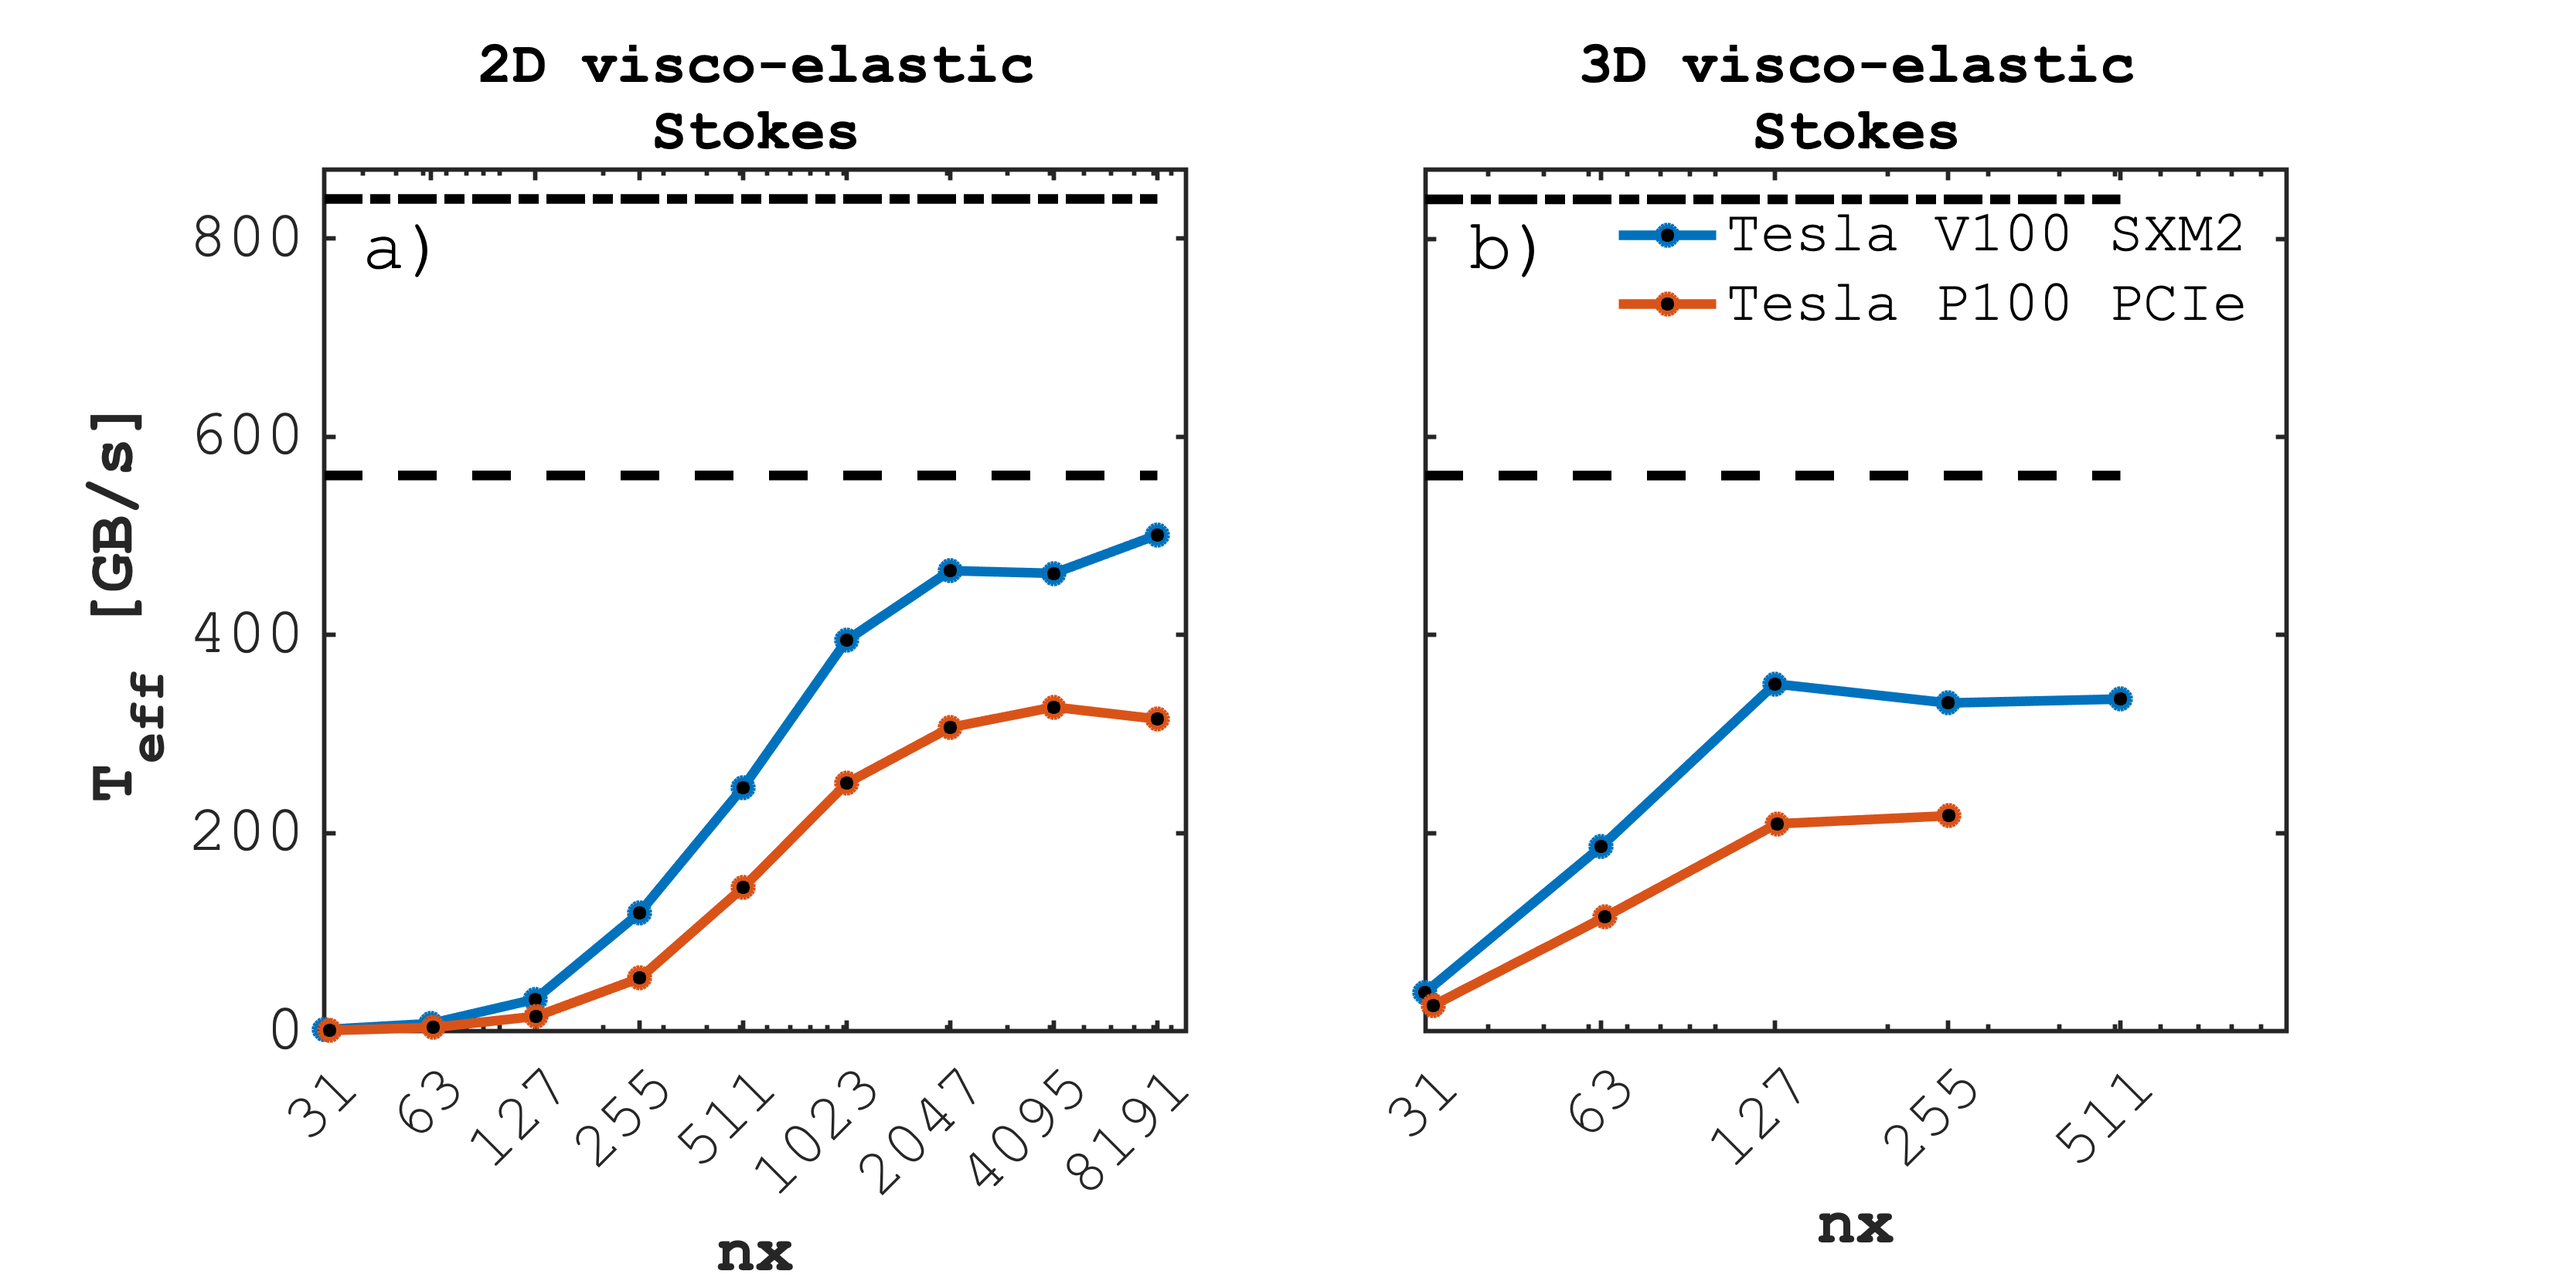
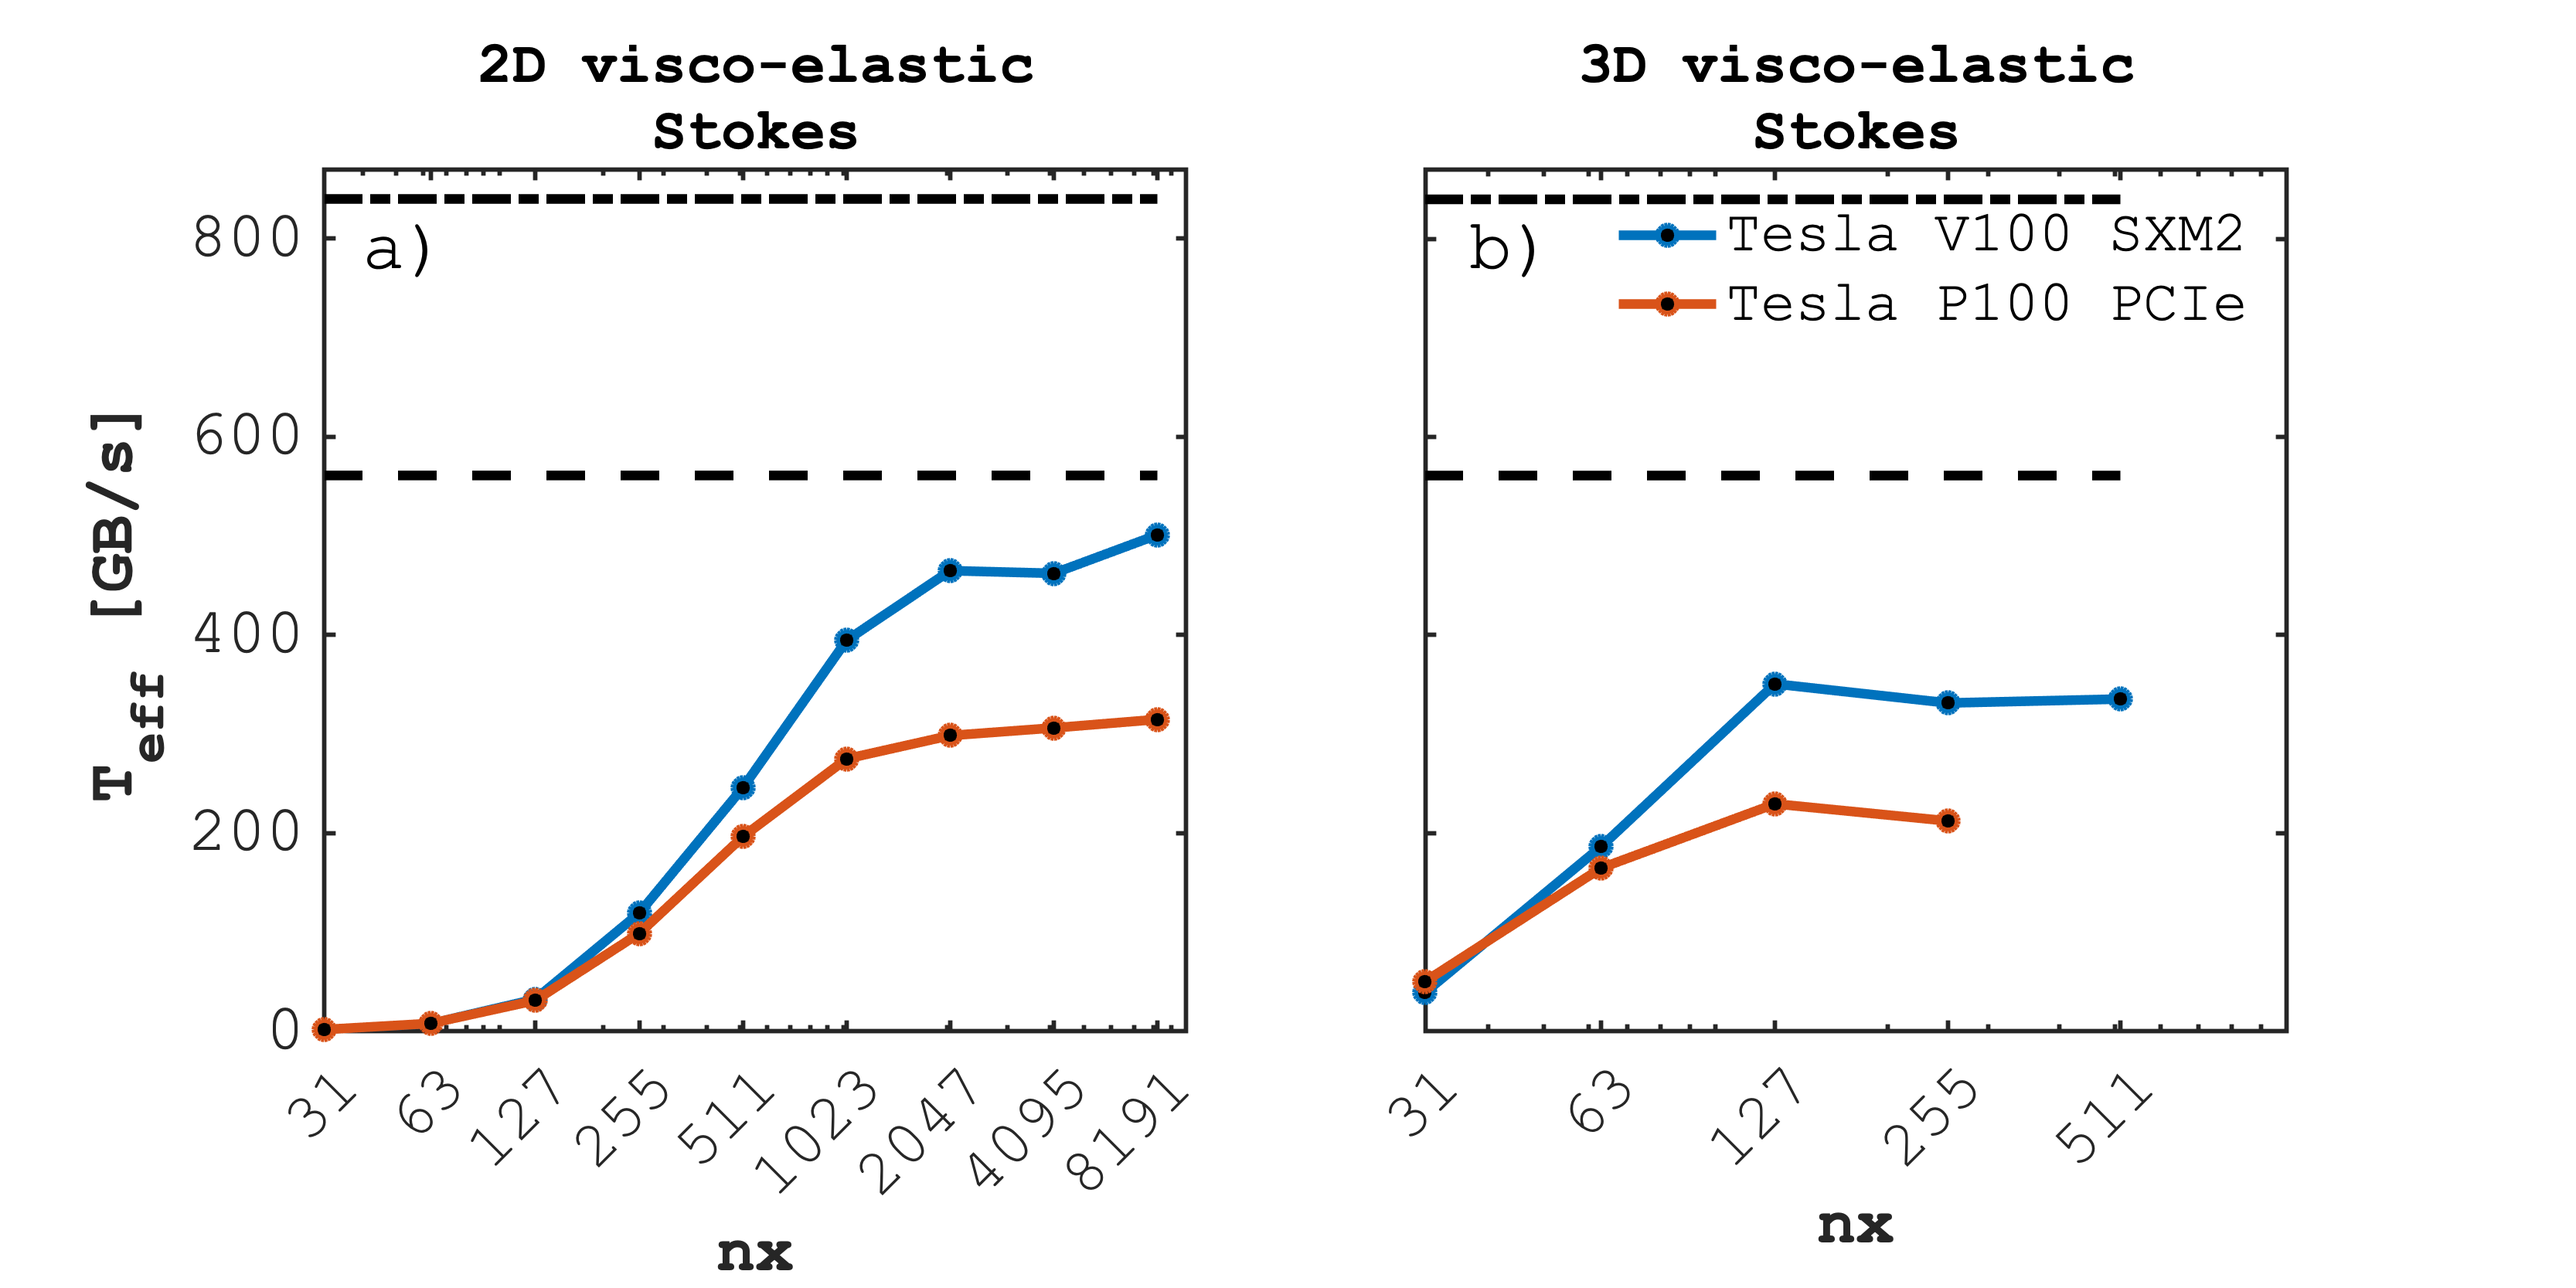
Add latest scaling.

Changed region(s): [[0.5305, 0.6239, 0.7801, 0.7798], [0.1248, 0.6239, 0.312, 0.811], [0.312, 0.5303, 0.4368, 0.6239]]

diff --git a/visu/viz_perf_stokes.m b/visu/viz_perf_stokes.m
@@ -9,14 +9,19 @@ fid = fopen('../output/out_Stokes3D_ve_perf_volta.txt','r'); stokes_3D_volta = f
 fid = fopen('../output/out_Stokes3D_ve_perf_daint.txt','r'); stokes_3D_daint = fscanf(fid, '%d %d %d %d %d %f %f %f %f', [9 Inf]); fclose(fid); % np nx ny nz ittot t_toc A_eff t_it T_eff
 fid = fopen('../../PseudoTransientDiffusion/output/out_diff_3D_nonlin_perf_octo.txt' ,'r'); diff_3D_octo  = fscanf(fid, '%d %d %d %d %d %f %f %f %f', [9 Inf]); fclose(fid); % np nx ny nz ittot t_toc A_eff t_it T_eff
 fid = fopen('../../PseudoTransientDiffusion/output/out_diff_3D_nonlin_perf_volta.txt','r'); diff_3D_volta = fscanf(fid, '%d %d %d %d %d %f %f %f %f', [9 Inf]); fclose(fid); % np nx ny nz ittot t_toc A_eff t_it T_eff
+fid = fopen('../../PseudoTransientDiffusion/output/out_diff_3D_nonlin_perf_daint.txt','r'); diff_3D_daint = fscanf(fid, '%d %d %d %d %d %f %f %f %f', [9 Inf]); fclose(fid); % np nx ny nz ittot t_toc A_eff t_it T_eff
 
 fid = fopen('../output/out_Stokes3D_ve_xpu_perf_octo.txt' ,'r'); stokes_3D_mxpu_octo  = fscanf(fid, '%d %d %d %d %d %f %f %f %f', [9 Inf]); fclose(fid); % np nx ny nz ittot t_toc A_eff t_it T_eff
 fid = fopen('../output/out_Stokes3D_ve_xpu_perf_volta.txt','r'); stokes_3D_mxpu_volta = fscanf(fid, '%d %d %d %d %d %f %f %f %f', [9 Inf]); fclose(fid); % np nx ny nz ittot t_toc A_eff t_it T_eff
+fid = fopen('../output/out_Stokes3D_ve_xpu_perf_daint.txt','r'); stokes_3D_mxpu_daint = fscanf(fid, '%d %d %d %d %d %f %f %f %f', [9 Inf]); fclose(fid); % np nx ny nz ittot t_toc A_eff t_it T_eff
 fid = fopen('../../PseudoTransientDiffusion/output/out_diff_3D_nonlin_multixpu_perf_octo.txt' ,'r'); diff_3D_mxpu_octo  = fscanf(fid, '%d %d %d %d %d %f %f %f %f', [9 Inf]); fclose(fid); % np nx ny nz ittot t_toc A_eff t_it T_eff
 fid = fopen('../../PseudoTransientDiffusion/output/out_diff_3D_nonlin_multixpu_perf_volta.txt','r'); diff_3D_mxpu_volta = fscanf(fid, '%d %d %d %d %d %f %f %f %f', [9 Inf]); fclose(fid); % np nx ny nz ittot t_toc A_eff t_it T_eff
+fid = fopen('../../PseudoTransientDiffusion/output/out_diff_3D_nonlin_multixpu_perf_daint.txt','r'); diff_3D_mxpu_daint = fscanf(fid, '%d %d %d %d %d %f %f %f %f', [9 Inf]); fclose(fid); % np nx ny nz ittot t_toc A_eff t_it T_eff
+
 
 nrep = 5; % number of repetitions of the experiment
 nrep2 = 2; % number of repetitions of the experiment
+nrep1 = 1; % number of repetitions of the experiment
 my_type = "my_max";
 % my_type = "my_mean";
 
@@ -25,14 +30,17 @@ stokes_2D_volta_2 = average_exp(stokes_2D_volta, nrep, my_type);
 stokes_2D_daint_2 = average_exp(stokes_2D_daint, nrep2, my_type);
 stokes_3D_octo_2  = average_exp(stokes_3D_octo, nrep, my_type);
 stokes_3D_volta_2 = average_exp(stokes_3D_volta, nrep, my_type);
-stokes_3D_daint_2 = average_exp(stokes_3D_daint, nrep2, my_type);
+stokes_3D_daint_2 = average_exp(stokes_3D_daint, nrep1, my_type);
 stokes_3D_mxpu_octo_2  = average_exp(stokes_3D_mxpu_octo, nrep, my_type);
 stokes_3D_mxpu_volta_2 = average_exp(stokes_3D_mxpu_volta, nrep, my_type);
+stokes_3D_mxpu_daint_2 = average_exp(stokes_3D_mxpu_daint, nrep1, my_type);
 
 diff_3D_octo_2  = average_exp(diff_3D_octo, nrep, my_type);
 diff_3D_volta_2 = average_exp(diff_3D_volta, nrep, my_type);
+diff_3D_daint_2 = average_exp(diff_3D_daint, nrep2, my_type);
 diff_3D_mxpu_octo_2  = average_exp(diff_3D_mxpu_octo, nrep, my_type);
 diff_3D_mxpu_volta_2 = average_exp(diff_3D_mxpu_volta, nrep, my_type);
+diff_3D_mxpu_daint_2 = average_exp(diff_3D_mxpu_daint, nrep1, my_type);
 
 T_peak_volta = 840;
 T_peak_octo  = 254;
@@ -42,11 +50,12 @@ FS = 20;
 mylim = [0 870];
 ylab = 790;
 
-mylim2 = [0.89 1.01];
-ylab2 = 0.9;
+mylim2 = [0.88 1.01];
+mylimx = [0.9 2e3];
+ylab2 = 0.895;
 
 fig1 = 1;
-fig2 = 0;
+fig2 = 1;
 
 %%
 if fig1==1
@@ -96,35 +105,39 @@ end
 if fig2==1
 figure(2),clf,set(gcf,'color','white','pos',[1400 10 800 400])
 sp1 = subplot(121);
-semilogx(diff_3D_mxpu_octo_2(1,:),diff_3D_mxpu_octo_2(end,:)./diff_3D_mxpu_octo_2(end,1), '-o', ...
-     diff_3D_mxpu_volta_2(1,:),diff_3D_mxpu_volta_2(end,:)./diff_3D_mxpu_volta_2(end,1), '-o', ...
-     'linewidth',3, 'MarkerFaceColor','k'), axis square, set(gca, 'fontsize',FS, 'linewidth',1.4)
+% diff_3D_mxpu_octo_2(1,:),diff_3D_mxpu_octo_2(end,:)./diff_3D_mxpu_octo_2(end,1), '-o', ...
+semilogx(diff_3D_mxpu_volta_2(1,:),diff_3D_mxpu_volta_2(end,:)./diff_3D_mxpu_volta_2(end,1), '-o', ...
+         diff_3D_mxpu_daint_2(1,:),diff_3D_mxpu_daint_2(end,:)./diff_3D_mxpu_daint_2(end,1), '-o', ...
+        'linewidth',3, 'MarkerFaceColor','k'), axis square, set(gca, 'fontsize',FS, 'linewidth',1.4)
 title({'3D nonlinear'; 'diffusion'},'fontsize',FS-2)
 ylabel({' ';'\bf{E}'}, 'fontsize',FS)
 % lg=legend('Titan Xm', 'Tesla V100 SXM2'); set(lg,'box','off')
 ylim(mylim2)
-set(gca, 'XTick',diff_3D_mxpu_octo_2(1,:))
+xlim(mylimx)
+set(gca, 'XTick',diff_3D_mxpu_daint_2(1,:))
 xtickangle(45)
 set(gca,'fontname','Courier')
 xlabel('\bf{P (GPUs)}', 'fontsize',FS)
 text(1.3,ylab2,'a)','fontsize',FS+2,'fontname','Courier')
 
 sp2 = subplot(122);
-semilogx(stokes_3D_mxpu_octo_2(1,:),stokes_3D_mxpu_octo_2(end,:)./stokes_3D_mxpu_octo_2(end,1), '-o', ...
-     stokes_3D_mxpu_volta_2(1,:),stokes_3D_mxpu_volta_2(end,:)./stokes_3D_mxpu_volta_2(end,1), '-o', ...
+% stokes_3D_mxpu_octo_2(1,:),stokes_3D_mxpu_octo_2(end,:)./stokes_3D_mxpu_octo_2(end,1), '-o', ...
+semilogx(stokes_3D_mxpu_volta_2(1,:),stokes_3D_mxpu_volta_2(end,:)./stokes_3D_mxpu_volta_2(end,1), '-o', ...
+         stokes_3D_mxpu_daint_2(1,:),stokes_3D_mxpu_daint_2(end,:)./stokes_3D_mxpu_daint_2(end,1), '-o', ...
      'linewidth',3, 'MarkerFaceColor','k'), axis square, set(gca, 'fontsize',FS, 'linewidth',1.4)
 title({'3D visco-elastic'; 'Stokes'},'fontsize',FS-2)
 % ylabel({' ';'\bf{E}'}, 'fontsize',FS)
-lg=legend('Titan Xm', 'Tesla V100 SXM2'); set(lg,'box','off')
+lg=legend('Tesla V100 SXM2', 'Tesla P100 PCIe'); set(lg,'box','off')
 ylim(mylim2)
-set(gca, 'XTick',stokes_3D_mxpu_octo_2(1,:), 'YTicklabel',[])
+xlim(mylimx)
+set(gca, 'XTick',stokes_3D_mxpu_daint_2(1,:), 'YTicklabel',[])
 xtickangle(45)
 set(gca,'fontname','Courier')
 xlabel('\bf{P (GPUs)}', 'fontsize',FS)
 text(1.3,ylab2,'b)','fontsize',FS+2,'fontname','Courier')
 
-pos1 = get(sp1,'position'); set(sp1,'position',[pos1(1)*1.04  pos1(2)*1. pos1(3)*1 pos1(4)*1])
-pos2 = get(sp2,'position'); set(sp2,'position',[pos2(1)*0.96  pos2(2)*1. pos2(3)*1 pos2(4)*1])
+pos1 = get(sp1,'position'); set(sp1,'position',[pos1(1)*1.04  pos1(2)*1.2 pos1(3)*1 pos1(4)*1])
+pos2 = get(sp2,'position'); set(sp2,'position',[pos2(1)*0.96  pos2(2)*1.2 pos2(3)*1 pos2(4)*1])
 
 fig = gcf;
 fig.PaperPositionMode = 'auto';
